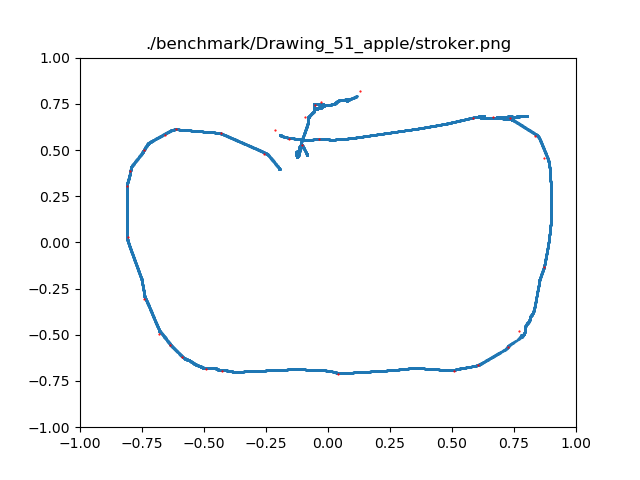
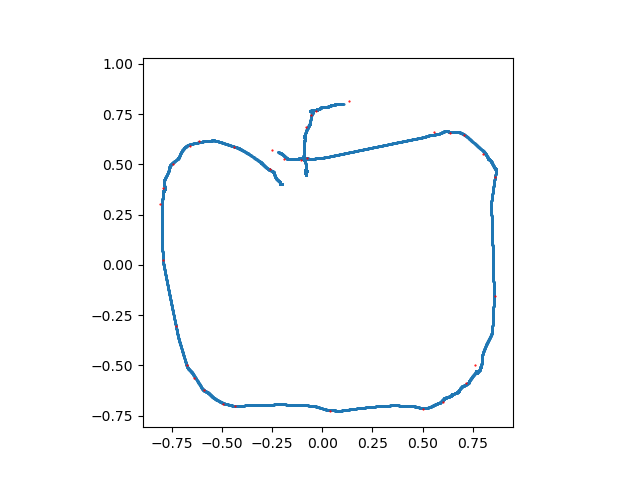
Run all benchmark with no title and squared axes

diff --git a/turtlebot3_env/turtlebot3_env/envs/turtlebot3_real_env.py b/turtlebot3_env/turtlebot3_env/envs/turtlebot3_real_env.py
@@ -163,11 +163,12 @@ class Turtlebot3RealEnv(gym.Env):
 
     # render the trajectory
     def show(self, title):
-        plt.title(title)
+        #plt.title(title)
         plt.scatter(*zip(*self.trajectory), s=0.3)
         plt.scatter(*zip(*self.targets), c='red',s=0.3)
         plt.xlim(-1, 1)
         plt.ylim(-1, 1)
+        plt.axis('square')
         plt.savefig(title)        
         #plt.show()
     
